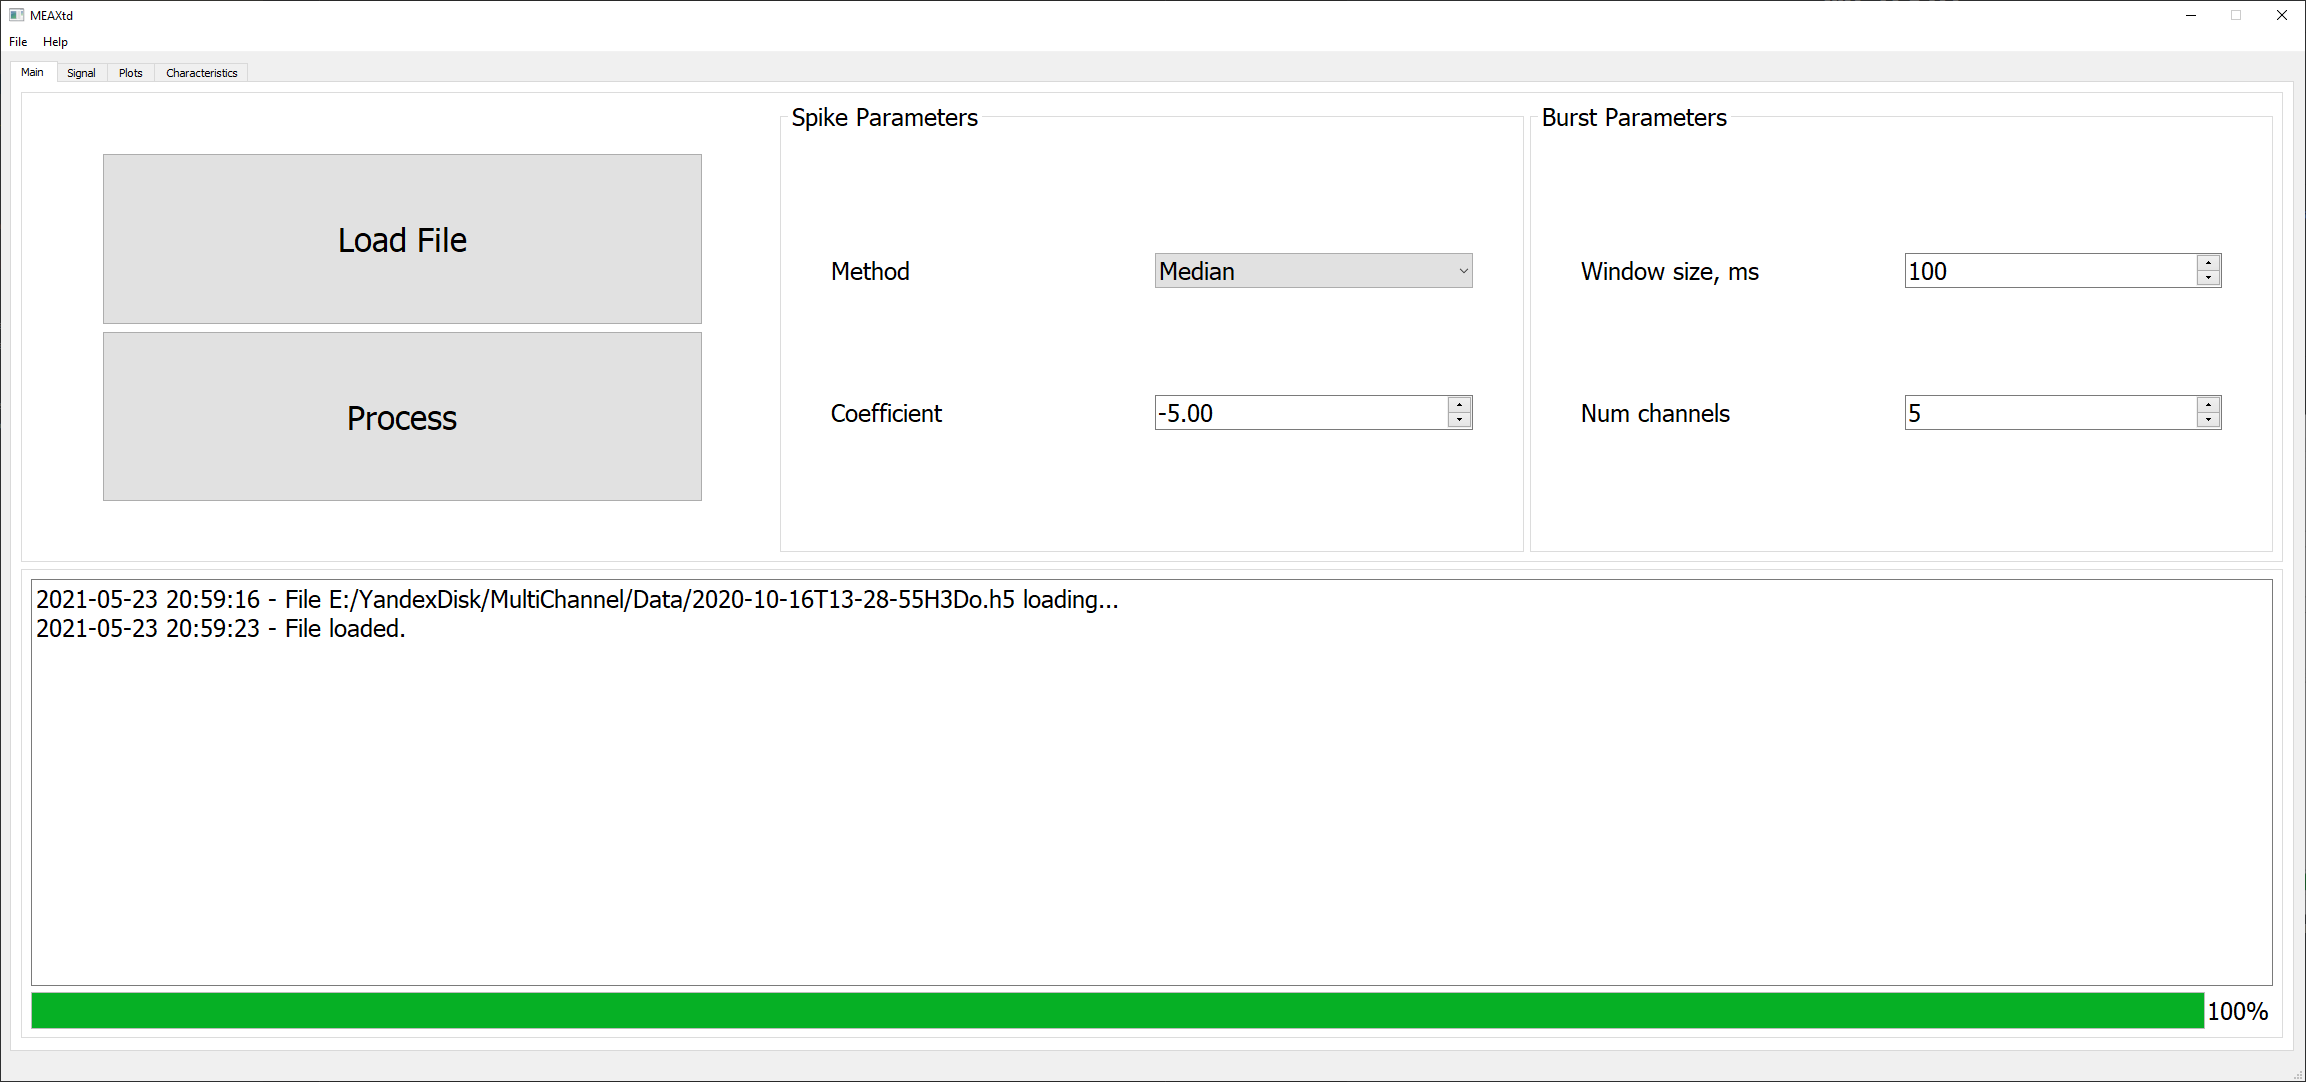
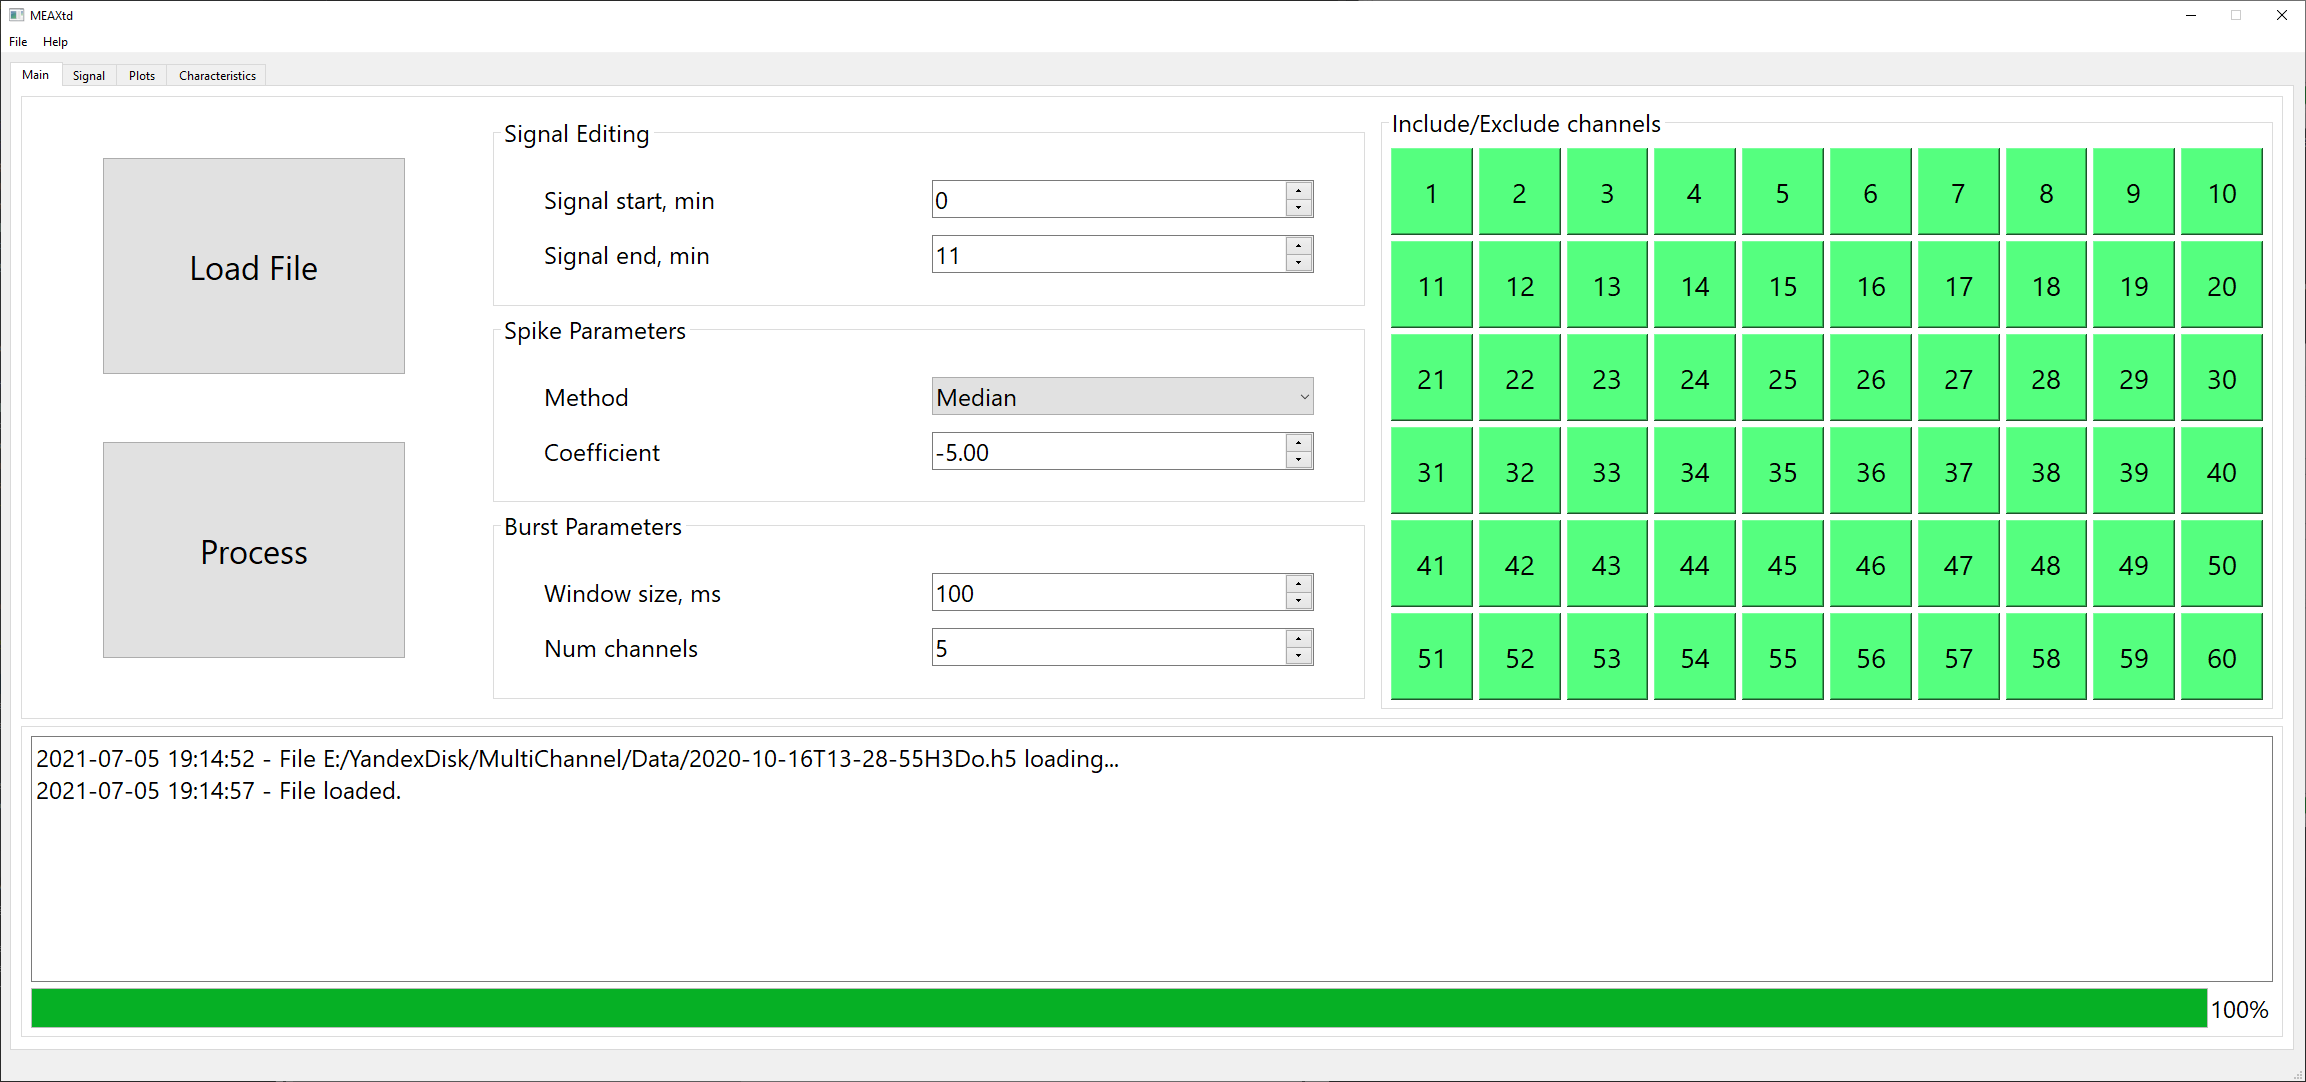
readme update

diff --git a/README.rst b/README.rst
@@ -13,7 +13,7 @@ MEA MultiChannel signal analysis
 Файл \*.exe
 -----------
 
-Файл MEAXtd.exe с первой версией программы доступен по ссылке: https://github.com/AaronBlare/MEAXtd/releases
+Файл MEAXtd.exe доступен по ссылке: https://github.com/AaronBlare/MEAXtd/releases
 
 Его наобходимо скачать и запустить. Загрузка программы может занять несколько секунд.
 
@@ -38,8 +38,10 @@ https://www.multichannelsystems.com/software/multi-channel-datamanager
 
 .. image:: images//progress.png
 
-На главном экране можно изменять параметры поиска спайков и берстов.
-На данный момент реализовано 3 метода поиска спайков: с использованием медианы, среднего квадратического или стандартного отклонения
+На главном экране можно изменять различные параметры для проведения анализа сигнала.
+Программа позволяет задавать начальную и конечную временные отметки сигнала для анализа (в минутах) в панели "Signal Editing", а также исключать из анализа отдельные каналы в панели "Include/Exclude channels". Если сигнал исключен из рассмотрения, соответствующая панель с его номером подсвечивается красным.
+
+Также существует возможность настройки параметров поиска спайков и берстов. На данный момент реализовано 3 метода поиска спайков: с использованием медианы, среднего квадратического или стандартного отклонения
 ::
 
     coeff * median(|x| \ 0.6745)
@@ -80,6 +82,8 @@ https://www.multichannelsystems.com/software/multi-channel-datamanager
 
 В нижней левой части окна отображается растровая диаграмма: точки соответствуют временам возникновения спайков на каждом из каналов.
 
+Если изменены начало или окончание сигнала -- на графиках будет отображаться траектория только в указанный интервал времени. Нажатие на кнопку "А" около графика автоматически установит масштаб.
+
 В правой части отображаются диаграммы среднего времени активации и деактивации для берстов (среднее время первого спайка в берсте для каждого канала).
 
 Экран отображения характеристик (вкладка Characteristics)
@@ -89,8 +93,8 @@ https://www.multichannelsystems.com/software/multi-channel-datamanager
 
 .. image:: images\\characteristics_1.png
 
-Все вычисленные характеристики также сохраняются в отдельные xlsx файлы. В папке, где находится оригинальный файл, создается отдельная папка с именем файла, в ней - папка с используемой конфигурацией параметров.
-В эту же папку сохраняются все графики с вкладки Plots.
+Все вычисленные характеристики также сохраняются в отдельные xlsx файлы. В папке, где находится оригинальный файл, создается отдельная папка с именем файла, в ней - папка с временем проведения анализа.
+В эту же папку сохраняются все графики с вкладки Plots и файл с конфигурацией параметров анализа.
 
 Обратная связь
 ---------------------
